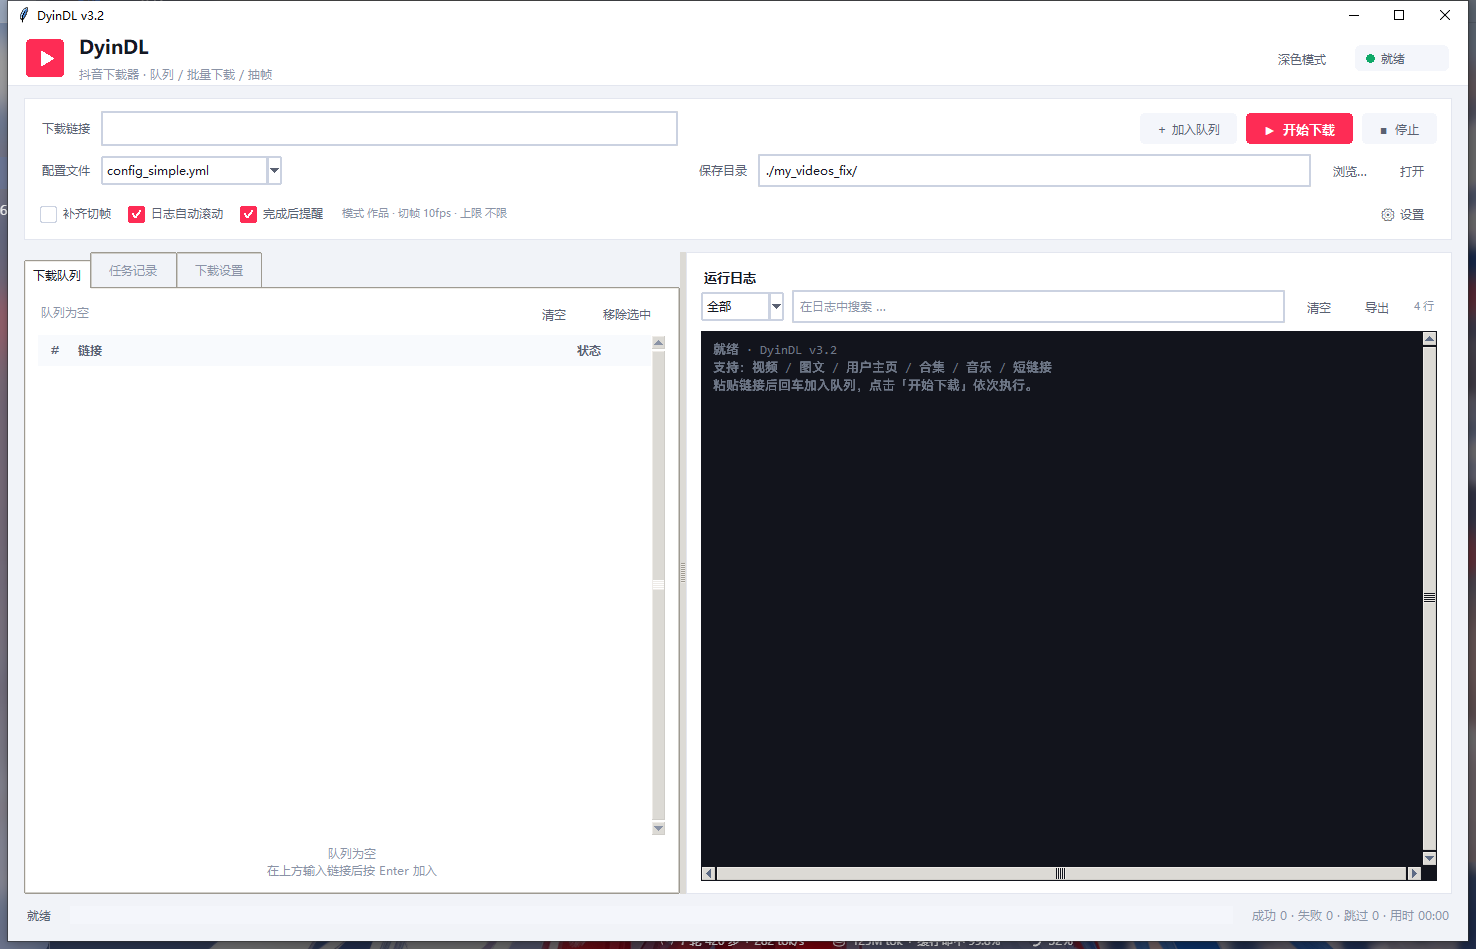
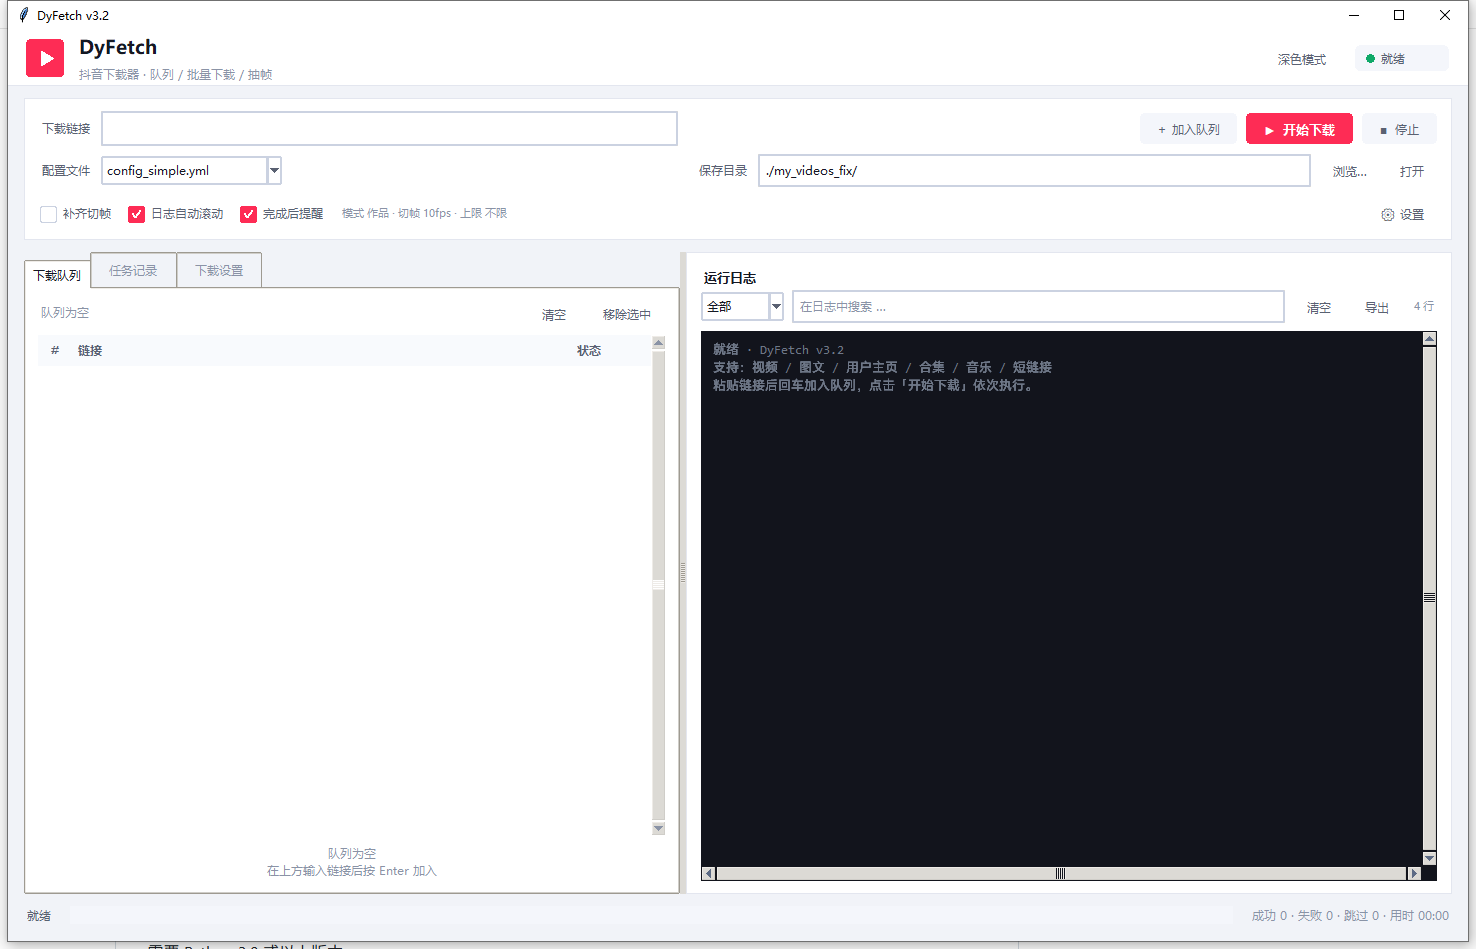
feat: 项目更名为 DyFetch
- README、界面标题与页眉、命令行横幅和 --help 描述统一改为 DyFetch
- 重新生成界面预览截图

Changed region(s): [[0.0, 0.0, 1.0, 1.0], [0.5298, 0.3667, 0.561, 0.3973]]

diff --git a/downloader.py b/downloader.py
@@ -3306,7 +3306,7 @@ class UnifiedDownloader:
     async def run(self):
         """Run downloader."""
         console.print(Panel.fit(
-            "[bold cyan]DyinDL v3.2[/bold cyan]\n"
+            "[bold cyan]DyFetch v3.2[/bold cyan]\n"
             "[dim]Supports video, image, user page and mix batch download[/dim]",
             border_style="cyan"
         ))
@@ -3511,7 +3511,7 @@ async def _refresh_session_command(config_path: str) -> int:
 def main():
     """Main entry point."""
     parser = argparse.ArgumentParser(
-        description='DyinDL - Douyin content downloader',
+        description='DyFetch - Douyin content downloader',
         formatter_class=argparse.RawDescriptionHelpFormatter
     )
     

diff --git a/ui.py b/ui.py
@@ -33,7 +33,7 @@ from urllib.parse import parse_qs, urlparse
 import tkinter as tk
 from tkinter import filedialog, messagebox, simpledialog, ttk
 
-APP_NAME = "DyinDL"
+APP_NAME = "DyFetch"
 APP_SUBTITLE = "抖音下载器 · 队列 / 批量下载 / 抽帧"
 APP_VERSION = "3.2"
 

diff --git a/README.md b/README.md
@@ -1,6 +1,6 @@
-# DyinDL
+# DyFetch
 
-DyinDL（抖音下载器）用于下载抖音平台的视频、图文、作者主页与合集内容，提供命令行与桌面图形界面
+DyFetch（抖音下载器）用于下载抖音平台的视频、图文、作者主页与合集内容，提供命令行与桌面图形界面
 两种使用方式，下载完成后可按指定帧率抽帧。
 
 主程序为 `downloader.py`，图形界面为 `ui.py`。
